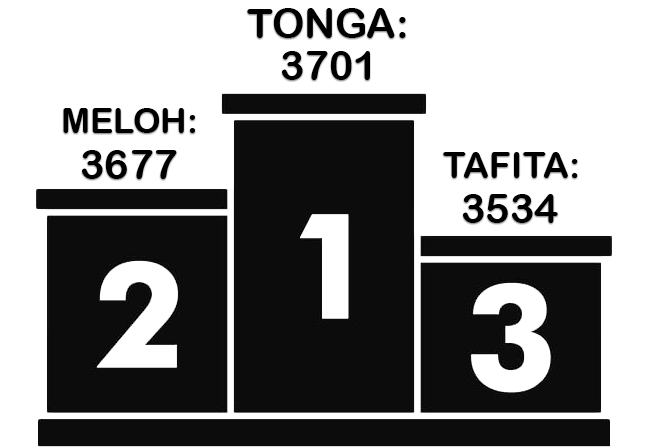
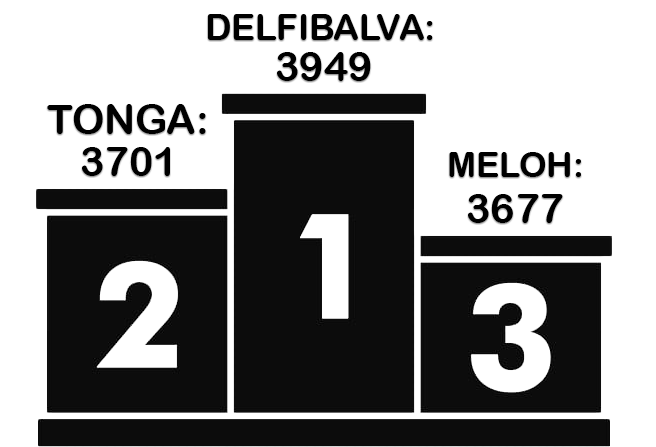
agregando a delfibalva

diff --git a/suika/top/index.html b/suika/top/index.html
@@ -179,42 +179,48 @@
                         <tbody>
                             <tr>
                                 <td>1</td>
+                                <td><a href="https://www.twitch.tv/delfibalva">Delfibalva</a></td>
+                                <td>3949</td>
+                                <td><a href="https://www.twitch.tv/delfibalva/clip/LitigiousPricklySoymilkPeanutButterJellyTime-ixkmGUnGEj0U2NEr">Clip</a></td>
+                            </tr>
+                            <tr>
+                                <td>2</td>
                                 <td><a href="https://www.twitch.tv/tongx_">Tonga</a></td>
                                 <td>3701</td>
                                 <td><a href="https://www.twitch.tv/tongx_/clip/CourageousRealFriesLitty-R30fnVUl84vDtH72">Clip</a></td>
                             </tr>
                             <tr>
-                                <td>2</td>
+                                <td>3</td>
                                 <td><a href="https://www.twitch.tv/meelooh">Meloh</a></td>
                                 <td>3677</td>
                                 <td><a href="https://www.twitch.tv/meelooh/clip/BitterGorgeousEndivePeteZaroll-YlEIo7Y1geiTwpyI">Clip</a></td>
                             </tr>
                             <tr>
-                                <td>3</td>
+                                <td>4</td>
                                 <td><a href="https://www.twitch.tv/taffitaa">Taffita</a></td>
                                 <td>3534</td>
                                 <td><a href="https://www.twitch.tv/taffitaa/clip/FrigidSweetChamoisEagleEye-lDPjmqL8gdUHDmQf">Clip</a></td>
                             </tr>
                             <tr>
-                                <td>4</td>
+                                <td>5</td>
                                 <td><a href="https://www.twitch.tv/chabon">Chabon</a></td>
                                 <td>3348</td>
                                 <td><a href="https://www.twitch.tv/chabon/clip/SucculentSplendidUdonDxCat-tUwiNlt1pk9Az74I">Clip</a></td>
                             </tr>
                             <tr>
-                                <td>5</td>
+                                <td>6</td>
                                 <td><a href="https://www.twitch.tv/thiago_gj">Thiago GJ</a></td>
                                 <td>3192</td>
                                 <td><a href="https://www.twitch.tv/thiago_gj/clip/PeppyGleamingDootBuddhaBar-6ifx94yWlgUHggWo">Clip</a></td>
                             </tr>
                             <tr>
-                                <td>6</td>
+                                <td>7</td>
                                 <td><a href="https://www.twitch.tv/aldimirco">Aldimirco</a></td>
                                 <td>3098</td>
                                 <td><a href="https://www.twitch.tv/aldimirco/clip/DeadDeterminedMarrowKappaPride-5BAE6Lq-cpmqaiwm">Clip</a></td>
                             </tr>
                             <tr>
-                                <td>7</td>
+                                <td>8</td>
                                 <td><a href="https://www.twitch.tv/harryalexok">HarryAlexOk</a></td>
                                 <td>2859</td>
                                 <td><a href="https://www.twitch.tv/harryalexok/clip/GleamingUglyTomatoAMPTropPunch-21ojQ4kqVsoed0Z3">Clip</a></td>
